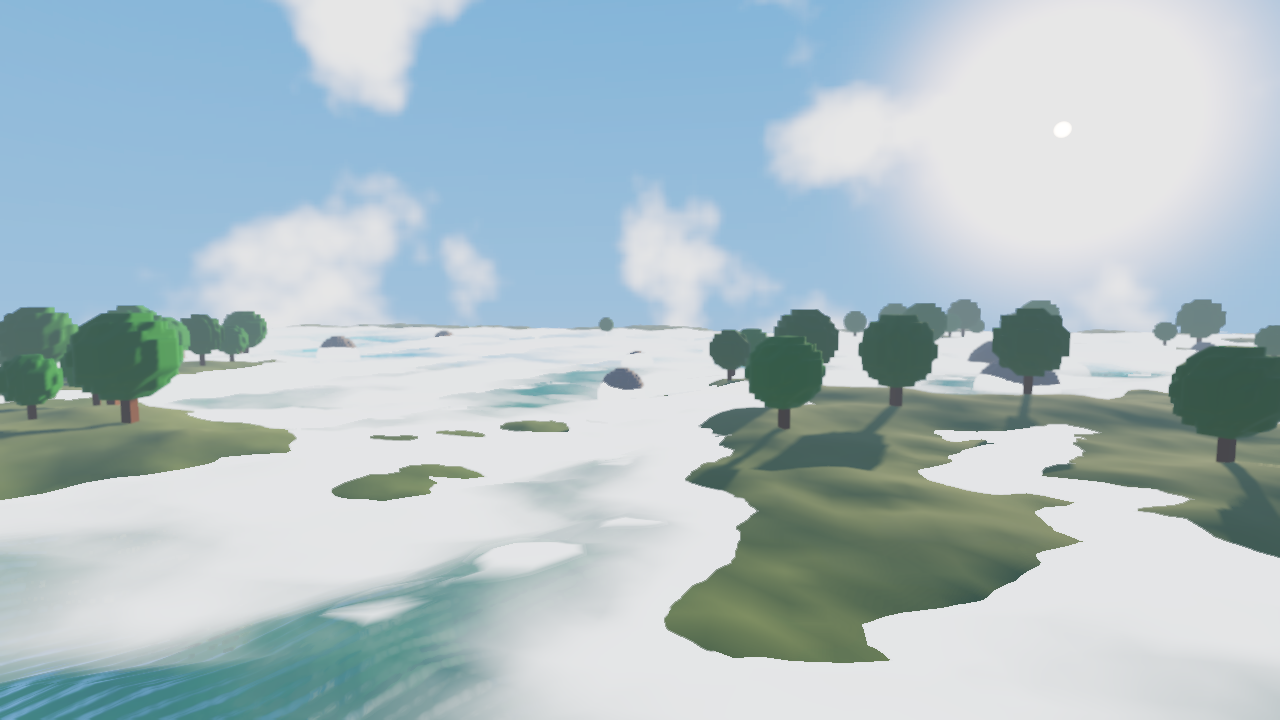
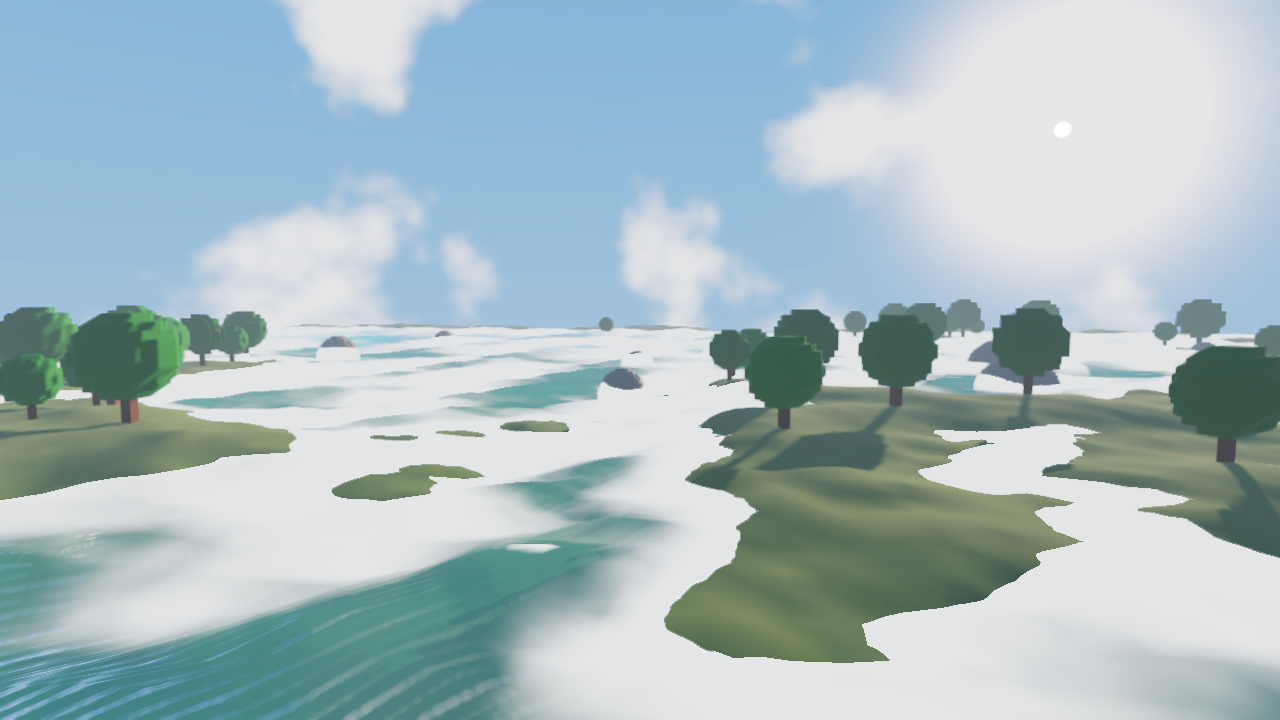
G13 water: sharper surface reflection + less foam
- kWaterFrag: add a crisp sky-cubemap mirror term on top of the half-res
  planar reflection: sample uSkyCube by the reflected ray (fallback: sky
  gradient) plus a sun disk, weighted by fresnel*0.5; lower reflection
  distortion defaults (0.12->0.05, refraction 0.06->0.035) so the
  mirror stays sharp
- drawWater: bind the sky cubemap on kTextureUnitSkyCube and set
  uSkyCube/uUseSkyCube/uSkyTop/uSkyBottom/uSunCos
- foam tuning: foamCrestStart 0.72->0.80, foamCrestSoftness 0.18->0.10,
  shoreFoamWidth 1.2->0.8, foamStrength 1.0->0.85 (example overrides removed)
- re-rendered docs/images/g13_water_*.png; tutorials + CHANGELOG updated

diff --git a/src/render/deferred_glsl.hpp b/src/render/deferred_glsl.hpp
@@ -858,6 +858,11 @@ in vec2 vLocalXZ;
 uniform sampler2D uSceneHdr; // unit 0: lighting output without the water (refraction)
 uniform sampler2D uGDepth;   // unit 1: G-buffer depth (occlusion + shore foam)
 uniform sampler2D uReflTex;  // unit 2: planar reflection target
+uniform samplerCube uSkyCube; // unit kTextureUnitSkyCube (16): sharp sky mirror on top
+uniform int uUseSkyCube;
+uniform vec3 uSkyTop;
+uniform vec3 uSkyBottom;
+uniform float uSunCos;
 uniform mat4 uInvViewProj;
 uniform mat4 uViewProj;      // camera viewProj (un-jittered): water fragment -> depth value
 uniform vec3 uCamPos;
@@ -917,9 +922,17 @@ void main() {
     float foam = clamp(max(shoreFoam, crestFoam) * uFoamStrength, 0.0, 1.0);
     // fresnel (dielectric)
     float fres = uFresnelF0 + (1.0 - uFresnelF0) * pow(1.0 - max(dot(N, V), 0.0), 5.0);
-    // planar reflection: the mirrored camera shares the projection, so screen uv maps 1:1
+    vec3 R = reflect(-V, N);
+    // surface reflection: planar reflection (mirrored camera shares the projection, so the
+    // screen uv maps 1:1, only distorted by the wave normal) ...
     vec2 reflUV = clamp(uv + N.xz * uDistortion, vec2(0.001), vec2(0.999));
     vec3 refl = texture(uReflTex, reflUV).rgb * uReflectionStrength;
+    // ... plus a sharp sky mirror sampled by the reflected ray (the planar target is
+    // half-res and distorted, the cubemap gives the crisp sky/sun reflection on top)
+    vec3 skyRefl = (uUseSkyCube == 1) ? texture(uSkyCube, R).rgb
+                                      : mix(uSkyBottom, uSkyTop, clamp(R.y, 0.0, 1.0));
+    skyRefl += uSunColor * smoothstep(uSunCos, 1.0, dot(R, uSunDir));
+    refl += skyRefl * clamp(fres, 0.0, 1.0) * 0.5;
     // refraction: scene HDR distorted by the normal, absorbed with depth, tinted by the body color
     vec2 refrUV = clamp(uv + N.xz * uRefractionDistortion, vec2(0.001), vec2(0.999));
     vec3 refr = texture(uSceneHdr, refrUV).rgb;
@@ -928,7 +941,6 @@ void main() {
     vec3 refrCol = refr * absorb + body * (1.0 - absorb) * 0.8;
     vec3 col = mix(refrCol, refl, clamp(fres, 0.0, 1.0));
     // sun glint on the wave normals
-    vec3 R = reflect(-V, N);
     col += uSunColor * pow(max(dot(R, uSunDir), 0.0), uGlintPower) * 2.0;
     // foam on top ("Gicht" at the crests + shore foam)
     col = mix(col, uFoamColor, foam);

diff --git a/include/fuhglgraphics/water/water_surface.hpp b/include/fuhglgraphics/water/water_surface.hpp
@@ -89,12 +89,12 @@ public:
     fuhgl::math::Vec3 foamColor{0.92f, 0.96f, 1.0f};         ///< crest/shore foam ("Gicht")
     float fresnelF0 = 0.02f;          ///< dielectric fresnel reflectance at normal incidence
     float reflectionStrength = 1.f;   ///< planar-reflection intensity (0 = off)
-    float distortion = 0.12f;         ///< reflection UV offset per unit of normal xz
-    float refractionDistortion = 0.06f; ///< refraction UV offset per unit of normal xz
-    float foamCrestStart = 0.72f;     ///< crest foam starts at this fraction of maxWaveHeight
-    float foamCrestSoftness = 0.18f;  ///< smooth width of the crest-foam ramp
-    float shoreFoamWidth = 1.2f;      ///< water depth (world units) over which shore foam fades in
-    float foamStrength = 1.f;         ///< overall foam intensity (0 = off)
+    float distortion = 0.05f;         ///< reflection UV offset per unit of normal xz (lower = sharper mirror)
+    float refractionDistortion = 0.035f; ///< refraction UV offset per unit of normal xz
+    float foamCrestStart = 0.80f;     ///< crest foam starts at this fraction of maxWaveHeight
+    float foamCrestSoftness = 0.10f;  ///< smooth width of the crest-foam ramp
+    float shoreFoamWidth = 0.8f;      ///< water depth (world units) over which shore foam fades in
+    float foamStrength = 0.85f;       ///< overall foam intensity (0 = off)
     float glintPower = 512.f;         ///< sun-glint specular exponent
     float detailNormalScale = 2.2f;   ///< strength of the procedural ripple detail normal
 

diff --git a/src/render/deferred_renderer.cpp b/src/render/deferred_renderer.cpp
@@ -830,6 +830,9 @@ void DeferredRenderer::drawWater(fuhgl::render::RenderGraph::PassContext& ctx) {
     const water::WaterSurface& w = *curWater_;
     fuhgl::gl::activeTexture(fuhgl::gl::GL_TEXTURE0 + 2);
     f.glBindTexture(fuhgl::gl::GL_TEXTURE_2D, im.reflColor.id());
+    // sky cubemap for the sharp sky-mirror term in the water shader (unit kTextureUnitSkyCube)
+    fuhgl::gl::activeTexture(fuhgl::gl::GL_TEXTURE0 + kTextureUnitSkyCube);
+    f.glBindTexture(fuhgl::gl::GL_TEXTURE_CUBE_MAP, skyCube_ ? skyCube_->id() : im.dummyCube.id());
     fuhgl::gl::disable(fuhgl::gl::Cap::DepthTest);
     fuhgl::gl::disable(fuhgl::gl::Cap::Blend);
     fuhgl::gl::enable(fuhgl::gl::Cap::CullFace);
@@ -840,6 +843,11 @@ void DeferredRenderer::drawWater(fuhgl::render::RenderGraph::PassContext& ctx) {
     p.setUniform(p.uniformLocation("uSceneHdr"), 0);
     p.setUniform(p.uniformLocation("uGDepth"), 1);
     p.setUniform(p.uniformLocation("uReflTex"), 2);
+    p.setUniform(p.uniformLocation("uSkyCube"), kTextureUnitSkyCube);
+    p.setUniform(p.uniformLocation("uUseSkyCube"), skyCube_ ? 1 : 0);
+    p.setUniform("uSkyTop", skyTop);
+    p.setUniform("uSkyBottom", skyBottom);
+    p.setUniform("uSunCos", s.sunCos);
     p.setUniform("uModel", waterModel_);
     // one uViewProj for VS (position) and FS (depth test): the G-buffer was rendered with
     // the same jittered viewProj, so the depth comparison uses the same quantization

diff --git a/examples/water_screenshot/main.cpp b/examples/water_screenshot/main.cpp
@@ -228,8 +228,6 @@ int main(int argc, char** argv) {
     wc.surface.time = 0.f;
     wc.surface.reflectionStrength = args.reflection ? 0.9f : 0.f;
     wc.surface.foamStrength = args.foam ? 1.f : 0.f;
-    wc.surface.shoreFoamWidth = 1.2f;
-    wc.surface.foamCrestStart = 0.55f;
     wc.surface.deepColor = {0.004f, 0.05f, 0.11f};
     wc.surface.shallowColor = {0.06f, 0.30f, 0.38f};
 

diff --git a/CHANGELOG.md b/CHANGELOG.md
@@ -33,6 +33,15 @@ All notable changes to FuhGlGraphics are documented here. The format follows
   Tutorial: `docs/en/tutorials/g13_water.md` + German translation. Requirement entry G13
   in [docs/REQUIREMENTS.md](docs/REQUIREMENTS.md).
 
+### Changed
+
+- **G13 water tuning**: sharper surface reflection — the water shader now adds a crisp
+  sky-cubemap mirror term (sampled by the reflected ray, plus the sun disk, weighted by the
+  fresnel) on top of the half-res planar reflection, and the reflection distortion defaults
+  dropped (`distortion` 0.12 → 0.05, `refractionDistortion` 0.06 → 0.035). Less foam:
+  `foamCrestStart` 0.72 → 0.80, `foamCrestSoftness` 0.18 → 0.10, `shoreFoamWidth` 1.2 → 0.8,
+  `foamStrength` 1.0 → 0.85. Reference images `docs/images/g13_water_*.png` re-rendered.
+
 ### Planned
 
 - **G12 — asset creator Qt tool** — design agreed, implementation in phases after review:

diff --git a/docs/de/tutorials/g13_water.md b/docs/de/tutorials/g13_water.md
@@ -51,8 +51,8 @@ wc.surface.create(160, 220.f);                        // GL-Kontext nötig
 wc.surface.setDefaultWaves();                         // 4 Gerstner-Wellen; oder wc.surface.waves tunen
 wc.surface.deepColor    = {0.01f, 0.08f, 0.13f};
 wc.surface.shallowColor = {0.08f, 0.35f, 0.40f};
-wc.surface.foamCrestStart = 0.55f;                    // Kamm-Schaum („Gicht") ab hier
-wc.surface.shoreFoamWidth = 2.5f;                     // Wassertiefe in Welt-Einheiten
+wc.surface.foamCrestStart = 0.80f;                    // Kamm-Schaum („Gicht") nur oberhalb 80% der max. Wellenhöhe
+wc.surface.shoreFoamWidth = 0.8f;                     // Wassertiefe in Welt-Einheiten (schmaler Ufersaum)
 
 scene.root().effects.enable(fuhglgraphics::render::Effect::Water);
 // pro Frame:

diff --git a/docs/en/tutorials/g13_water.md b/docs/en/tutorials/g13_water.md
@@ -49,8 +49,8 @@ wc.surface.create(160, 220.f);                        // GL context required
 wc.surface.setDefaultWaves();                         // 4 Gerstner waves; or tune wc.surface.waves
 wc.surface.deepColor    = {0.01f, 0.08f, 0.13f};
 wc.surface.shallowColor = {0.08f, 0.35f, 0.40f};
-wc.surface.foamCrestStart = 0.55f;                    // crest foam ("Gicht") from here on
-wc.surface.shoreFoamWidth = 2.5f;                     // world units of water depth
+wc.surface.foamCrestStart = 0.80f;                    // crest foam ("Gicht") only above 80% of the max wave height
+wc.surface.shoreFoamWidth = 0.8f;                     // world units of water depth (thin shore band)
 
 scene.root().effects.enable(fuhglgraphics::render::Effect::Water);
 // per frame:
